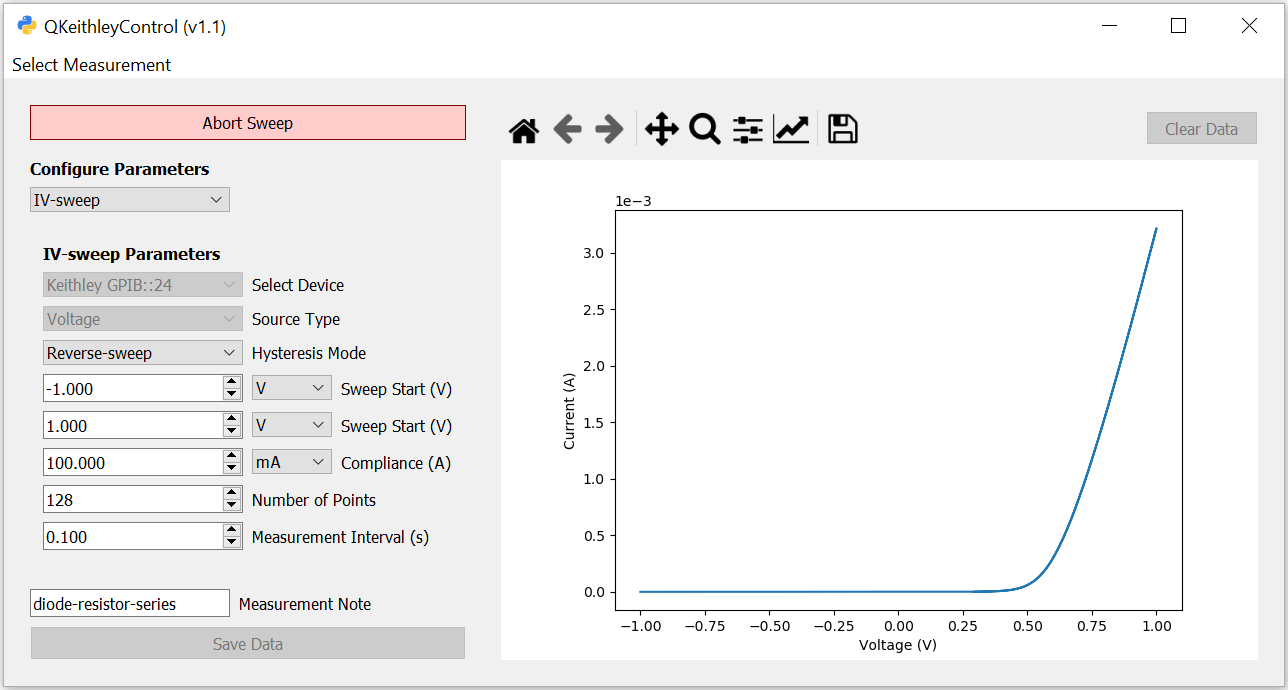
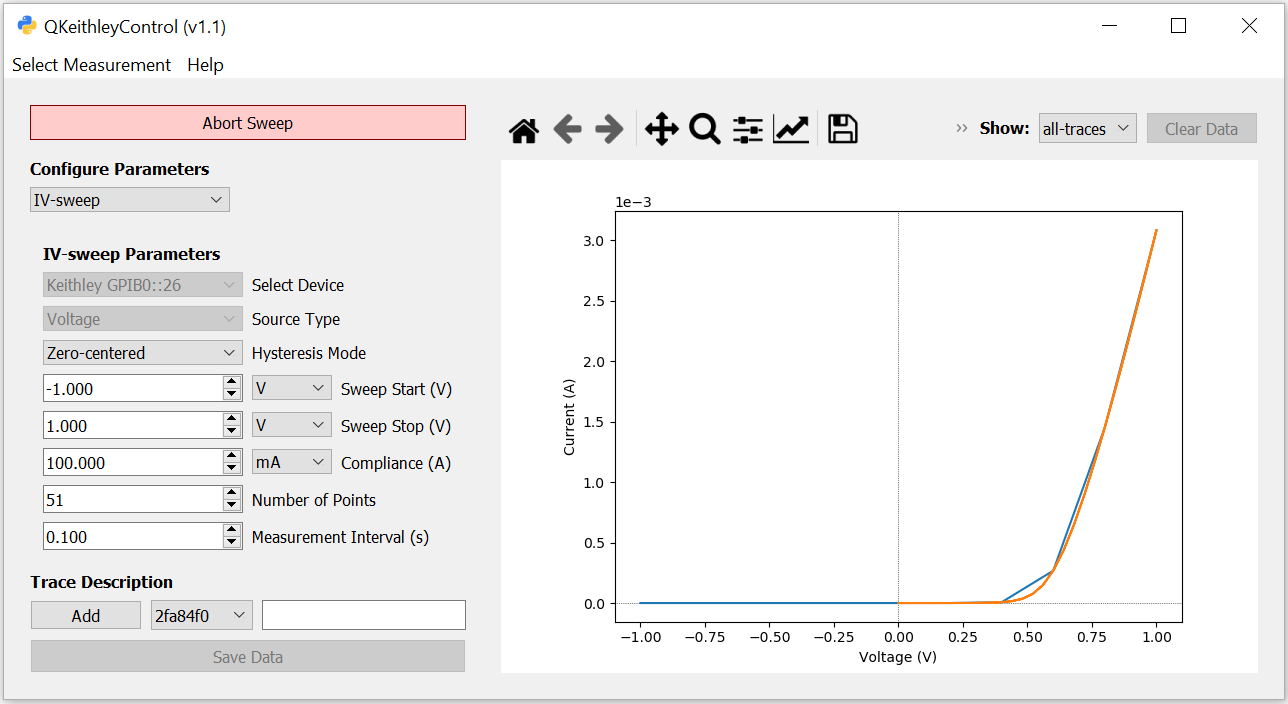
v1.1

diff --git a/src/app/QKeithleyBias.py b/src/app/QKeithleyBias.py
@@ -74,7 +74,8 @@ class QKeithleyBias(QVisaApplication.QVisaApplication):
 
 					# Force update bias pages
 					self.update_bias_pages()
-		
+	
+
 	# Update all widgets	
 	def update_bias_pages(self):
 
@@ -87,9 +88,8 @@ class QKeithleyBias(QVisaApplication.QVisaApplication):
 			# Call set current widget method
 			self.outputs.setCurrentWidget(self.bias_widgets[_name].get_output_widget())
 			self.ctrls.setCurrentWidget(self.bias_widgets[_name].get_ctrl_widget())
-			self.plots.setCurrentWidget(self.bias_widgets[_name].get_plot_widget())
+			self.plots.setCurrentWidget(self.bias_widgets[_name].get_plot_widget())						
 
-	
 	# Sync meta widget to data object
 	def _sync_meta_widget_to_data_object(self):
 

diff --git a/src/app/QKeithleySweep.py b/src/app/QKeithleySweep.py
@@ -394,7 +394,7 @@ class QKeithleySweep(QVisaApplication.QVisaApplication):
 			"label"		: "Number of Points",
 			"limit"		: 256.0, 
 			"signed"	: False,
-			"default"	: [11.0]
+			"default"	: [51.0]
 		}
 		self.voltage_sweep_npts = QVisaUnitSelector.QVisaUnitSelector(self.voltage_sweep_npts_config)
 

diff --git a/src/widgets/QKeithleyBiasWidget.py b/src/widgets/QKeithleyBiasWidget.py
@@ -241,7 +241,7 @@ class QKeithleyBiasWidget:
 			"min"		: "u",
 			"max"		: "",
 			"label"		: "Compliance",
-			"limit"		: 1.0, 
+			"limit"		: 20.0, 
 			"signed"	: False,
 			"default"	: [1, ""]
 		} 
